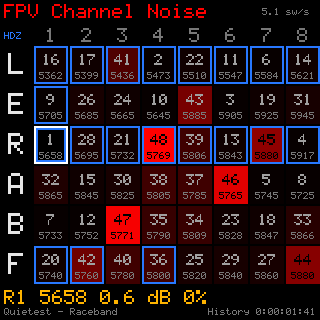
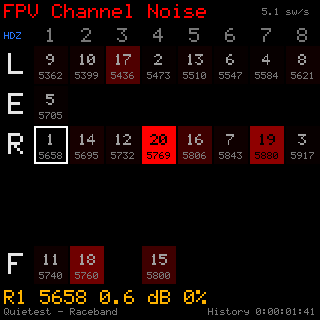
HDZero-only grids and spectrum bands, no blue outlines (revisions 72-74)
- 72: HDZero mode: Activity and Noise grids leave channels HDZero can't
  tune blank (and drop the letter of an empty band); Noise shading, ranks
  and quietest, and the Activity peak, use only the drawn channels
- 73: Blue HDZero outlines removed from the grid boxes
- 74: HDZero mode: spectrum band buttons without an HDZero channel are
  darker grey and skipped by ENTER
- README: all 22 screenshots regenerated in the order the software shows them

Claude-Session: https://claude.ai/code/session_019ySrNfXnGwibRSQT1orRxf

Changed region(s): [[0.0, 0.125, 1.0, 0.9062], [0.0, 0.6562, 0.0938, 0.75], [0.6875, 0.7812, 0.75, 0.875]]

diff --git a/FPV Channel Scanner/Settings.cpp b/FPV Channel Scanner/Settings.cpp
@@ -1,6 +1,6 @@
 /*
  * FPV Channel Scanner - Settings.cpp
- * Revision: 71
+ * Revision: 74
  *
  * User settings: the values, their limits and defaults, loading them from
  * flash at start-up and saving them, plus helpers that depend on them.
@@ -55,7 +55,7 @@ const SettingDef SETTINGS[] = {
   { "FPV Channel Noise", "Full red spread", "redSpread", &cfg.redSpread10,   1,  50,  1,  5, 0, 1, " dB",  "Quietest-to-busiest spread shown as full red" },
   { "Quietest Channels", "Min history",     "quietMin",  &cfg.quietMinS,     0, 600, 10, 60, 0, 0, " s",   "Noise history needed before the list opens" },
   { "Quietest Channels", "L Band Limit",    "lLimit",    &cfg.lBandLimit,    1,   8,  1,  8, 0, 0, "",     "Max L-band channels in Quietest and IMD lists" },
-  { "Quietest for HDZero", "HDZero features", "hdzero",    &cfg.hdzero,        0,   1,  1,  0, 1, 0, "",     "HDZero page and blue channel outlines" },
+  { "Quietest for HDZero", "HDZero features", "hdzero",    &cfg.hdzero,        0,   1,  1,  0, 1, 0, "",     "HDZero lists and HDZero-only grids" },
   { "Quietest for HDZero", "Low band L1-L8",  "hdzLow",    &cfg.hdzLowBand,    0,   1,  1,  1, 1, 0, "",     "Include L1-L8 (needs low band unlocked)" },
   { "Quietest for HDZero", "E1 and F1",       "hdzE1F1",   &cfg.hdzE1F1,       0,   1,  1,  1, 1, 0, "",     "Include E1 and F1 (not on every product page)" },
   { "IMD-Free Channels", "Min spacing",     "imdSep",    &cfg.imdMinSep,    20,  80,  1, 37, 0, 0, " MHz", "Smallest gap allowed between channels in a set" },
@@ -142,6 +142,19 @@ bool hdzeroOk(int b, int c) {
   if (BAND_NAME[b] == 'L' && !cfg.hdzLowBand) return false;
   if (!cfg.hdzE1F1 && ((BAND_NAME[b] == 'E' && c == 0) || (BAND_NAME[b] == 'F' && c == 0))) return false;
   return true;
+}
+
+// Grid pages: in HDZero mode only channels an HDZero VTX can use get a box.
+bool gridShown(int b, int c) {
+  return !cfg.hdzero || hdzeroOk(b, c);
+}
+
+// Spectrum band buttons: in HDZero mode only bands with at least one HDZero
+// channel (following the HDZero settings) can be selected.
+bool bandEnabled(int b) {
+  if (!cfg.hdzero) return true;
+  for (int c = 0; c < NUM_CH; c++) if (hdzeroOk(b, c)) return true;
+  return false;
 }
 
 // "HDZero: R1-8, L1-8, E1, F1, F2, F4", following the HDZero settings.

diff --git a/FPV Channel Scanner/Page Noise.cpp b/FPV Channel Scanner/Page Noise.cpp
@@ -1,6 +1,6 @@
 /*
  * FPV Channel Scanner - Page Noise.cpp
- * Revision: 71
+ * Revision: 74
  *
  * FPV Channel Noise page: long-term statistics for every channel
  * (average dB above floor, % busy, peak), shaded quietest to busiest.
@@ -73,12 +73,13 @@ int actBusyPct(int b, int c) {
   return actN[b][c] ? (int)((uint64_t)actBusyN[b][c] * 100 / actN[b][c]) : 0;
 }
 
-// rank: 1 = quietest .. 48 = busiest, 0 = don't show a rank
+// rank: 1 = quietest .. 48 = busiest (fewer in HDZero mode), 0 = no rank
 void actDrawCell(int b, int c, int level, bool peak, int rank) {
+  if (!gridShown(b, c)) return;                     // HDZero mode: blank where HDZero can't tune
   int x = GRID_X + c * (CELL_W + CELL_GAP);
   int y = GRID_Y + bandRow[b] * (CELL_H + CELL_GAP);
   RGB col = scaleColor(C_RED, level / 32.0f);          // black -> red
-  drawGridBox(x, y, col, peak, cfg.hdzero && hdzeroOk(b, c));
+  drawGridBox(x, y, col, peak);
   char f[6];
   snprintf(f, sizeof(f), "%u", FPV_MHZ[b][c]);
   RGB tc = level > 16 ? RGB{ 0, 0, 0 } : C_DIM;
@@ -116,6 +117,7 @@ void actDraw(bool learning, uint32_t learnStart) {
   int qb = -1, qc = -1; float quiet = 1e9f;  // black; outlined + named
   for (int b = 0; b < NUM_BANDS; b++)
     for (int c = 0; c < NUM_CH; c++) {
+      if (!gridShown(b, c)) continue;              // shading, quietest and ranks: drawn boxes only
       float a = actAvg(b, c);
       if (a > busiest) busiest = a;
       if (a < quiet) { quiet = a; qb = b; qc = c; }
@@ -130,8 +132,11 @@ void actDraw(bool learning, uint32_t learnStart) {
   int8_t rank[NUM_BANDS][NUM_CH];
   int order[NUM_BANDS * NUM_CH];
   actRankOrder(order);
-  for (int i = 0; i < NUM_BANDS * NUM_CH; i++)
-    rank[order[i] / NUM_CH][order[i] % NUM_CH] = havePeak ? (int8_t)(i + 1) : 0;
+  int nRank = 0;                            // 1 = quietest drawn box
+  for (int i = 0; i < NUM_BANDS * NUM_CH; i++) {
+    int b = order[i] / NUM_CH, c = order[i] % NUM_CH;
+    rank[b][c] = (havePeak && gridShown(b, c)) ? (int8_t)(++nRank) : 0;
+  }
 
   for (int b = 0; b < NUM_BANDS; b++)
     for (int c = 0; c < NUM_CH; c++) {

diff --git a/FPV Channel Scanner/Config.h b/FPV Channel Scanner/Config.h
@@ -1,6 +1,6 @@
 /*
  * FPV Channel Scanner - Config.h
- * Revision: 71
+ * Revision: 74
  *
  * Hardware pins, tuning constants, shared types, frequency table, colors
  * and the undocumented ESP32-C5 radio access used by the scanner.
@@ -10,7 +10,7 @@
 
 // Firmware revision shown on the Save / Discard page. Keep it equal to the
 // "Revision:" line in the file headers.
-#define FW_REVISION 71
+#define FW_REVISION 74
 
 #include <Arduino.h>
 #include <SPI.h>
@@ -45,8 +45,8 @@ struct Settings {
   int redSpread10;   // noise page: quietest-to-busiest spread for full red, tenths of dB
   int quietMinS;     // noise history (s) needed before the Quietest page opens
   int hdzero;        // HDZero features on/off
-  int hdzLowBand;    // HDZero lists/outlines include L1-L8
-  int hdzE1F1;       // HDZero lists/outlines include E1 and F1
+  int hdzLowBand;    // HDZero lists/grids include L1-L8
+  int hdzE1F1;       // HDZero lists/grids include E1 and F1
   int backlight;     // LCD backlight, %
   int imdMinSep;     // IMD-free page: smallest gap allowed between two channels, MHz
   int imdLowBand;    // IMD-free page: may use L1-L8 (outside HDZero mode)
@@ -219,7 +219,7 @@ static const RGB C_BTN_SEL = {  40, 220,  80 };  // selected spectrum band butto
 static const RGB C_RED   = { 255,   0,   0 };  // full-intensity activity color
 static const RGB C_RANK  = { 160, 160, 160 };  // rank numbers on the noise page
 static const RGB C_GOOD  = {  40, 220,  80 };  // IMD score 100
-static const RGB C_HDZ   = {  40, 120, 255 };  // outline: channel an HDZero VTX can use
+static const RGB C_HDZ   = {  40, 120, 255 };  // HDZero blue: "HDZ" marker, menu title bar, splash hint
 
 // ---------------------------------------------------------------- layout / UI constants
 // (moved here from the page code when the sketch was split into files)

diff --git a/FPV Channel Scanner/Page Spectrum.cpp b/FPV Channel Scanner/Page Spectrum.cpp
@@ -1,6 +1,6 @@
 /*
  * FPV Channel Scanner - Page Spectrum.cpp
- * Revision: 71
+ * Revision: 74
  *
  * Spectrum page: continuous sweep across one band in SPEC_STEP_MHZ
  * steps, with channel markers, values and band buttons. The sweep point
@@ -65,6 +65,7 @@ int freqToCol(float mhz) {
 }
 
 void specSetBand(int band) {
+  if (!bandEnabled(band)) band = nextBandInButtonOrder(band);   // HDZero mode: never a disabled band
   specBand = band;
   uint16_t lo = 65535, hi = 0;
   for (int c = 0; c < NUM_CH; c++) { lo = min(lo, FPV_MHZ[band][c]); hi = max(hi, FPV_MHZ[band][c]); }
@@ -116,9 +117,12 @@ void specDrawButtons() {
     int b = btnOrder[i];
     int x = x0 + i * (BTN_W + BTN_GAP);
     bool sel = b == specBand;
-    RGB edge = sel ? C_BTN_SEL : RGB{ 70, 70, 70 };
-    RGB fill = sel ? C_BTN_SEL : RGB{ 20, 20, 20 };
-    RGB text = sel ? RGB{ 0, 0, 0 } : RGB{ 130, 130, 130 };
+    // selected: solid green, black letter; others greyed out; disabled
+    // (HDZero mode, no HDZero channel in the band) greyed out more darkly
+    bool off = !bandEnabled(b);
+    RGB edge = sel ? C_BTN_SEL : off ? RGB{ 35, 35, 35 } : RGB{ 70, 70, 70 };
+    RGB fill = sel ? C_BTN_SEL : off ? RGB{ 10, 10, 10 } : RGB{ 20, 20, 20 };
+    RGB text = sel ? RGB{ 0, 0, 0 } : off ? RGB{ 50, 50, 50 } : RGB{ 130, 130, 130 };
     lcdFillC(x, BTN_Y, BTN_W, BTN_H, edge);                     // 1 px outline
     lcdFillC(x + 1, BTN_Y + 1, BTN_W - 2, BTN_H - 2, fill);
     char s[2] = { BAND_NAME[b], 0 };

diff --git a/FPV Channel Scanner/Screen Common.cpp b/FPV Channel Scanner/Screen Common.cpp
@@ -1,6 +1,6 @@
 /*
  * FPV Channel Scanner - Screen Common.cpp
- * Revision: 71
+ * Revision: 74
  *
  * Drawing shared by several pages (grid frame, Scanning dots, span /
  * history label, learning progress, title status), the pop-up, and
@@ -18,6 +18,9 @@ void drawGridFrame(const char *title, RGB titleColor) {
     lcdText(GRID_X + c * (CELL_W + CELL_GAP) + (CELL_W - 12) / 2, HDR_Y, s, 2, C_DIM, C_BG);
   }
   for (int r = 0; r < NUM_BANDS; r++) {
+    bool any = false;                          // HDZero mode: no letter for an empty band
+    for (int c = 0; c < NUM_CH; c++) if (gridShown(btnOrder[r], c)) any = true;
+    if (!any) continue;
     char s[2] = { BAND_NAME[btnOrder[r]], 0 };
     lcdText(8, GRID_Y + r * (CELL_H + CELL_GAP) + (CELL_H - 24) / 2, s, 3, C_TEXT, C_BG);
   }
@@ -88,10 +91,9 @@ void drawTitleStatus(float sweepsPerSec, bool learning) {
 
 // One grid box: optional white highlight (outermost), optional blue HDZero
 // outline inside it, then the fill. Shared by the Activity and Noise grids.
-void drawGridBox(int x, int y, RGB fill, bool highlight, bool hdzero) {
+void drawGridBox(int x, int y, RGB fill, bool highlight) {
   int in = 0;
   if (highlight) { lcdFillC(x, y, CELL_W, CELL_H, C_PEAKH); in = 2; }
-  if (hdzero)    { lcdFillC(x + in, y + in, CELL_W - 2 * in, CELL_H - 2 * in, C_HDZ); in += 2; }
   lcdFillC(x + in, y + in, CELL_W - 2 * in, CELL_H - 2 * in, fill);
 }
 

diff --git a/FPV Channel Scanner/Page Activity.cpp b/FPV Channel Scanner/Page Activity.cpp
@@ -1,6 +1,6 @@
 /*
  * FPV Channel Scanner - Page Activity.cpp
- * Revision: 71
+ * Revision: 74
  *
  * FPV Channel Activity page (the live grid) and the grid sweep that
  * also feeds the Channel Noise and Quietest Channels pages.
@@ -29,10 +29,11 @@ void gridDrawStatic() {
 }
 
 void gridDrawCell(int b, int c, int level, bool peak) {
+  if (!gridShown(b, c)) return;                     // HDZero mode: blank where HDZero can't tune
   int x = GRID_X + c * (CELL_W + CELL_GAP);
   int y = GRID_Y + bandRow[b] * (CELL_H + CELL_GAP);
   RGB col = scaleColor(C_HOT, 0.06f + 0.94f * level / 32.0f);
-  drawGridBox(x, y, col, peak, cfg.hdzero && hdzeroOk(b, c));
+  drawGridBox(x, y, col, peak);
   char f[6];
   snprintf(f, sizeof(f), "%u", FPV_MHZ[b][c]);
   RGB tc = level > 16 ? RGB{ 0, 0, 0 } : C_DIM;
@@ -111,6 +112,7 @@ void gridSweep() {
   int pb = -1, pc = -1; float best = -1e9f;
   for (int b = 0; b < NUM_BANDS; b++)
     for (int c = 0; c < NUM_CH; c++) {
+      if (!gridShown(b, c)) continue;              // peak only among drawn boxes
       float above = gridSmooth[b][c] - gridFloor[b][c];
       if (isnan(above) || gridFloor[b][c] == 0) above = 0;
       if (above > best) { best = above; pb = b; pc = c; }

diff --git a/FPV Channel Scanner/Scanner.h b/FPV Channel Scanner/Scanner.h
@@ -1,6 +1,6 @@
 /*
  * FPV Channel Scanner - Scanner.h
- * Revision: 71
+ * Revision: 74
  *
  * Shared declarations: every global variable (defined in State.cpp) and
  * every function, grouped by the file that defines it. Each .cpp file
@@ -22,6 +22,8 @@ void saveSpan();
 void formatSetting(int i, char *buf, int len);
 void stepSetting(int i, int dir);
 bool hdzeroOk(int b, int c);
+bool gridShown(int b, int c);
+bool bandEnabled(int b);          // spectrum band button usable (HDZero mode: band has an HDZero channel)     // false = box left blank (HDZero mode, channel HDZero can't use)
 
 // ---------------------------------------------------------------- Splash.cpp
 void showSplash();
@@ -140,7 +142,7 @@ int nextBandInButtonOrder(int band);
 
 // ---------------------------------------------------------------- Screen Common.cpp
 void drawGridFrame(const char *title, RGB titleColor);
-void drawGridBox(int x, int y, RGB fill, bool highlight, bool hdzero);
+void drawGridBox(int x, int y, RGB fill, bool highlight);
 void updateScanDots();
 void drawScanning(int y);
 void drawSpanLabel();

diff --git a/FPV Channel Scanner/Bands.cpp b/FPV Channel Scanner/Bands.cpp
@@ -1,6 +1,6 @@
 /*
  * FPV Channel Scanner - Bands.cpp
- * Revision: 71
+ * Revision: 74
  *
  * Band display order (by lowest frequency), shared by the grid rows and
  * the spectrum band buttons.
@@ -24,9 +24,14 @@ void buildButtonOrder() {
   for (int i = 0; i < NUM_BANDS; i++) bandRow[btnOrder[i]] = i;
 }
 
-// Band of the button to the right of the current one (wraps around).
+// Band of the next enabled button to the right of the current one (wraps
+// around); disabled bands (HDZero mode) are skipped.
 int nextBandInButtonOrder(int band) {
-  for (int i = 0; i < NUM_BANDS; i++)
-    if (btnOrder[i] == band) return btnOrder[(i + 1) % NUM_BANDS];
-  return btnOrder[0];
+  int pos = 0;
+  for (int i = 0; i < NUM_BANDS; i++) if (btnOrder[i] == band) pos = i;
+  for (int k = 1; k <= NUM_BANDS; k++) {
+    int b = btnOrder[(pos + k) % NUM_BANDS];
+    if (bandEnabled(b)) return b;
+  }
+  return band;
 }

diff --git a/FPV Channel Scanner/Splash Image.h b/FPV Channel Scanner/Splash Image.h
@@ -1,6 +1,6 @@
 /*
  * FPV Channel Scanner - Splash Image.h
- * Revision: 71
+ * Revision: 74
  *
  * Generated from FPV Channel Scanner/Splash.PNG by tools/Make Splash Header.py - do not edit.
  * 320 x 320, 256-colour palette (R, G, B), one index byte per pixel.

diff --git a/FPV Channel Scanner/Display.cpp b/FPV Channel Scanner/Display.cpp
@@ -1,6 +1,6 @@
 /*
  * FPV Channel Scanner - Display.cpp
- * Revision: 71
+ * Revision: 74
  *
  * ILI9488 320x320 LCD driver (SPI, 18-bit color), text drawing with the
  * 5x7 font, and the CH32V003 IO expander used for LCD reset and backlight.

diff --git a/FPV Channel Scanner/Page Quietest.cpp b/FPV Channel Scanner/Page Quietest.cpp
@@ -1,6 +1,6 @@
 /*
  * FPV Channel Scanner - Page Quietest.cpp
- * Revision: 71
+ * Revision: 74
  *
  * Quietest Channels and Quietest for HDZero pages: the QUIET_LIST_N
  * quietest channels from the Channel Noise history, in two columns of 8:

diff --git a/FPV Channel Scanner/Radio.cpp b/FPV Channel Scanner/Radio.cpp
@@ -1,6 +1,6 @@
 /*
  * FPV Channel Scanner - Radio.cpp
- * Revision: 71
+ * Revision: 74
  *
  * 5 GHz measurement: tuning with the internal phy_set_chanfreq(), reading
  * the baseband noise-floor estimator, the RSSI fallback when it stalls,
